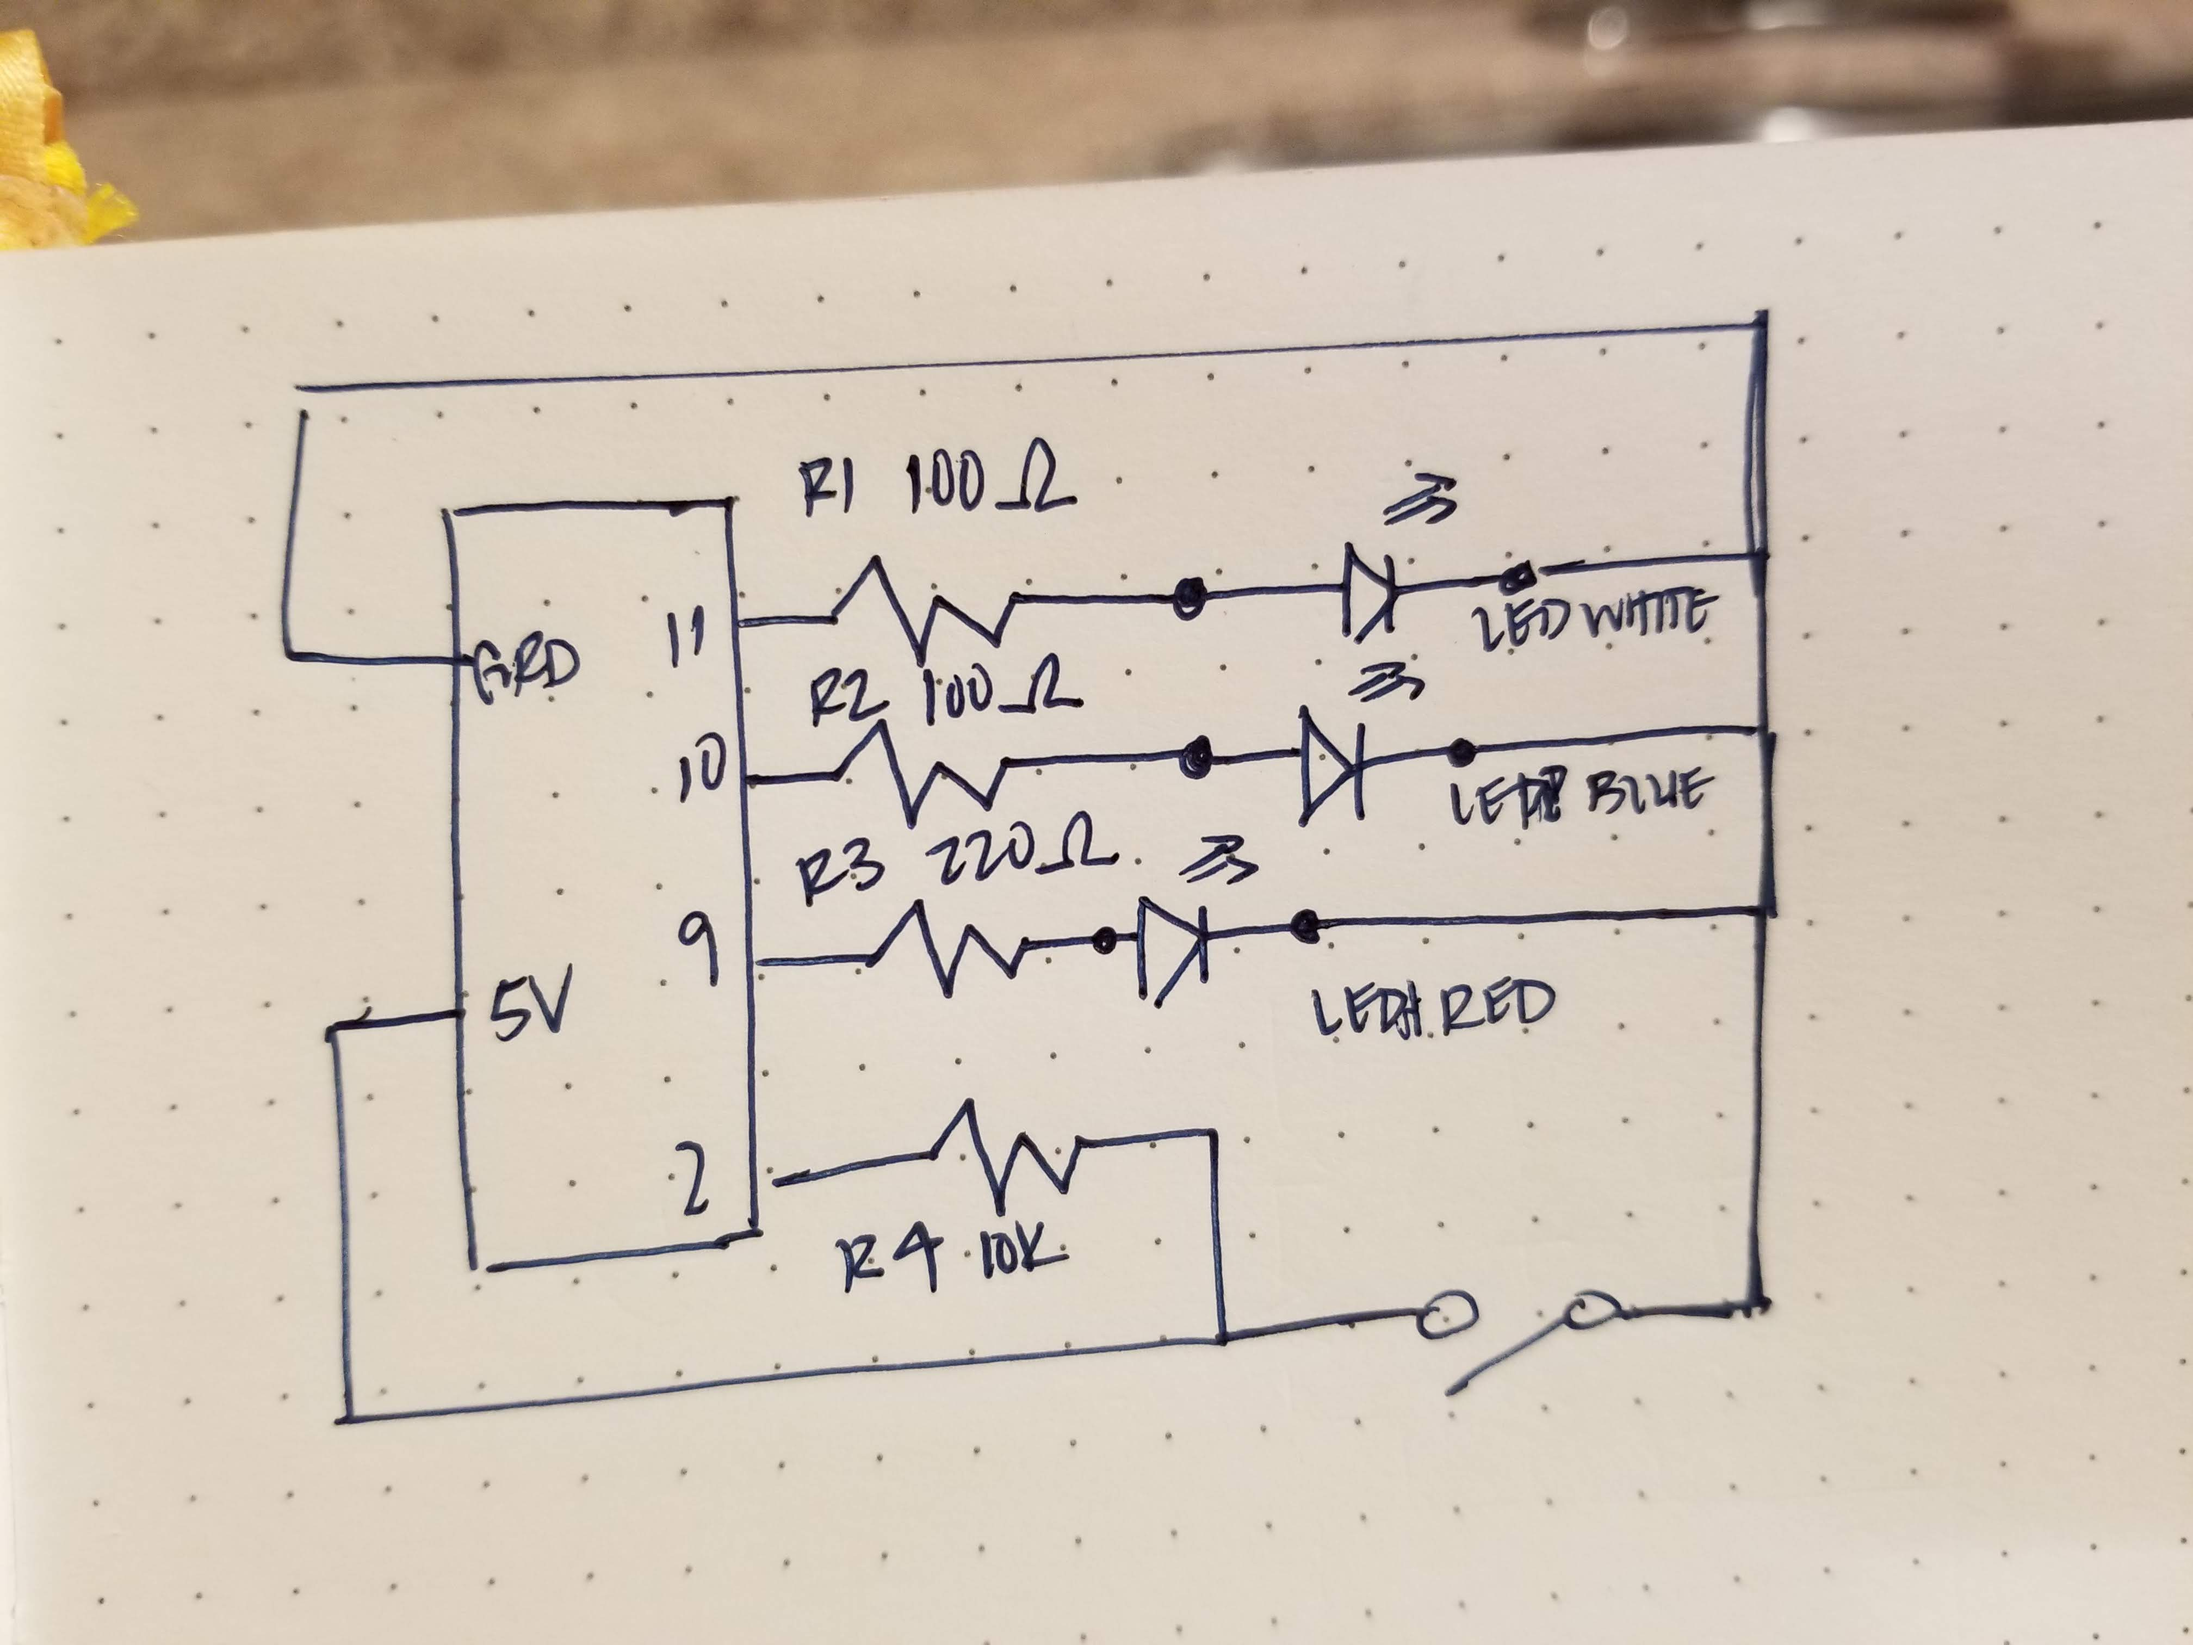
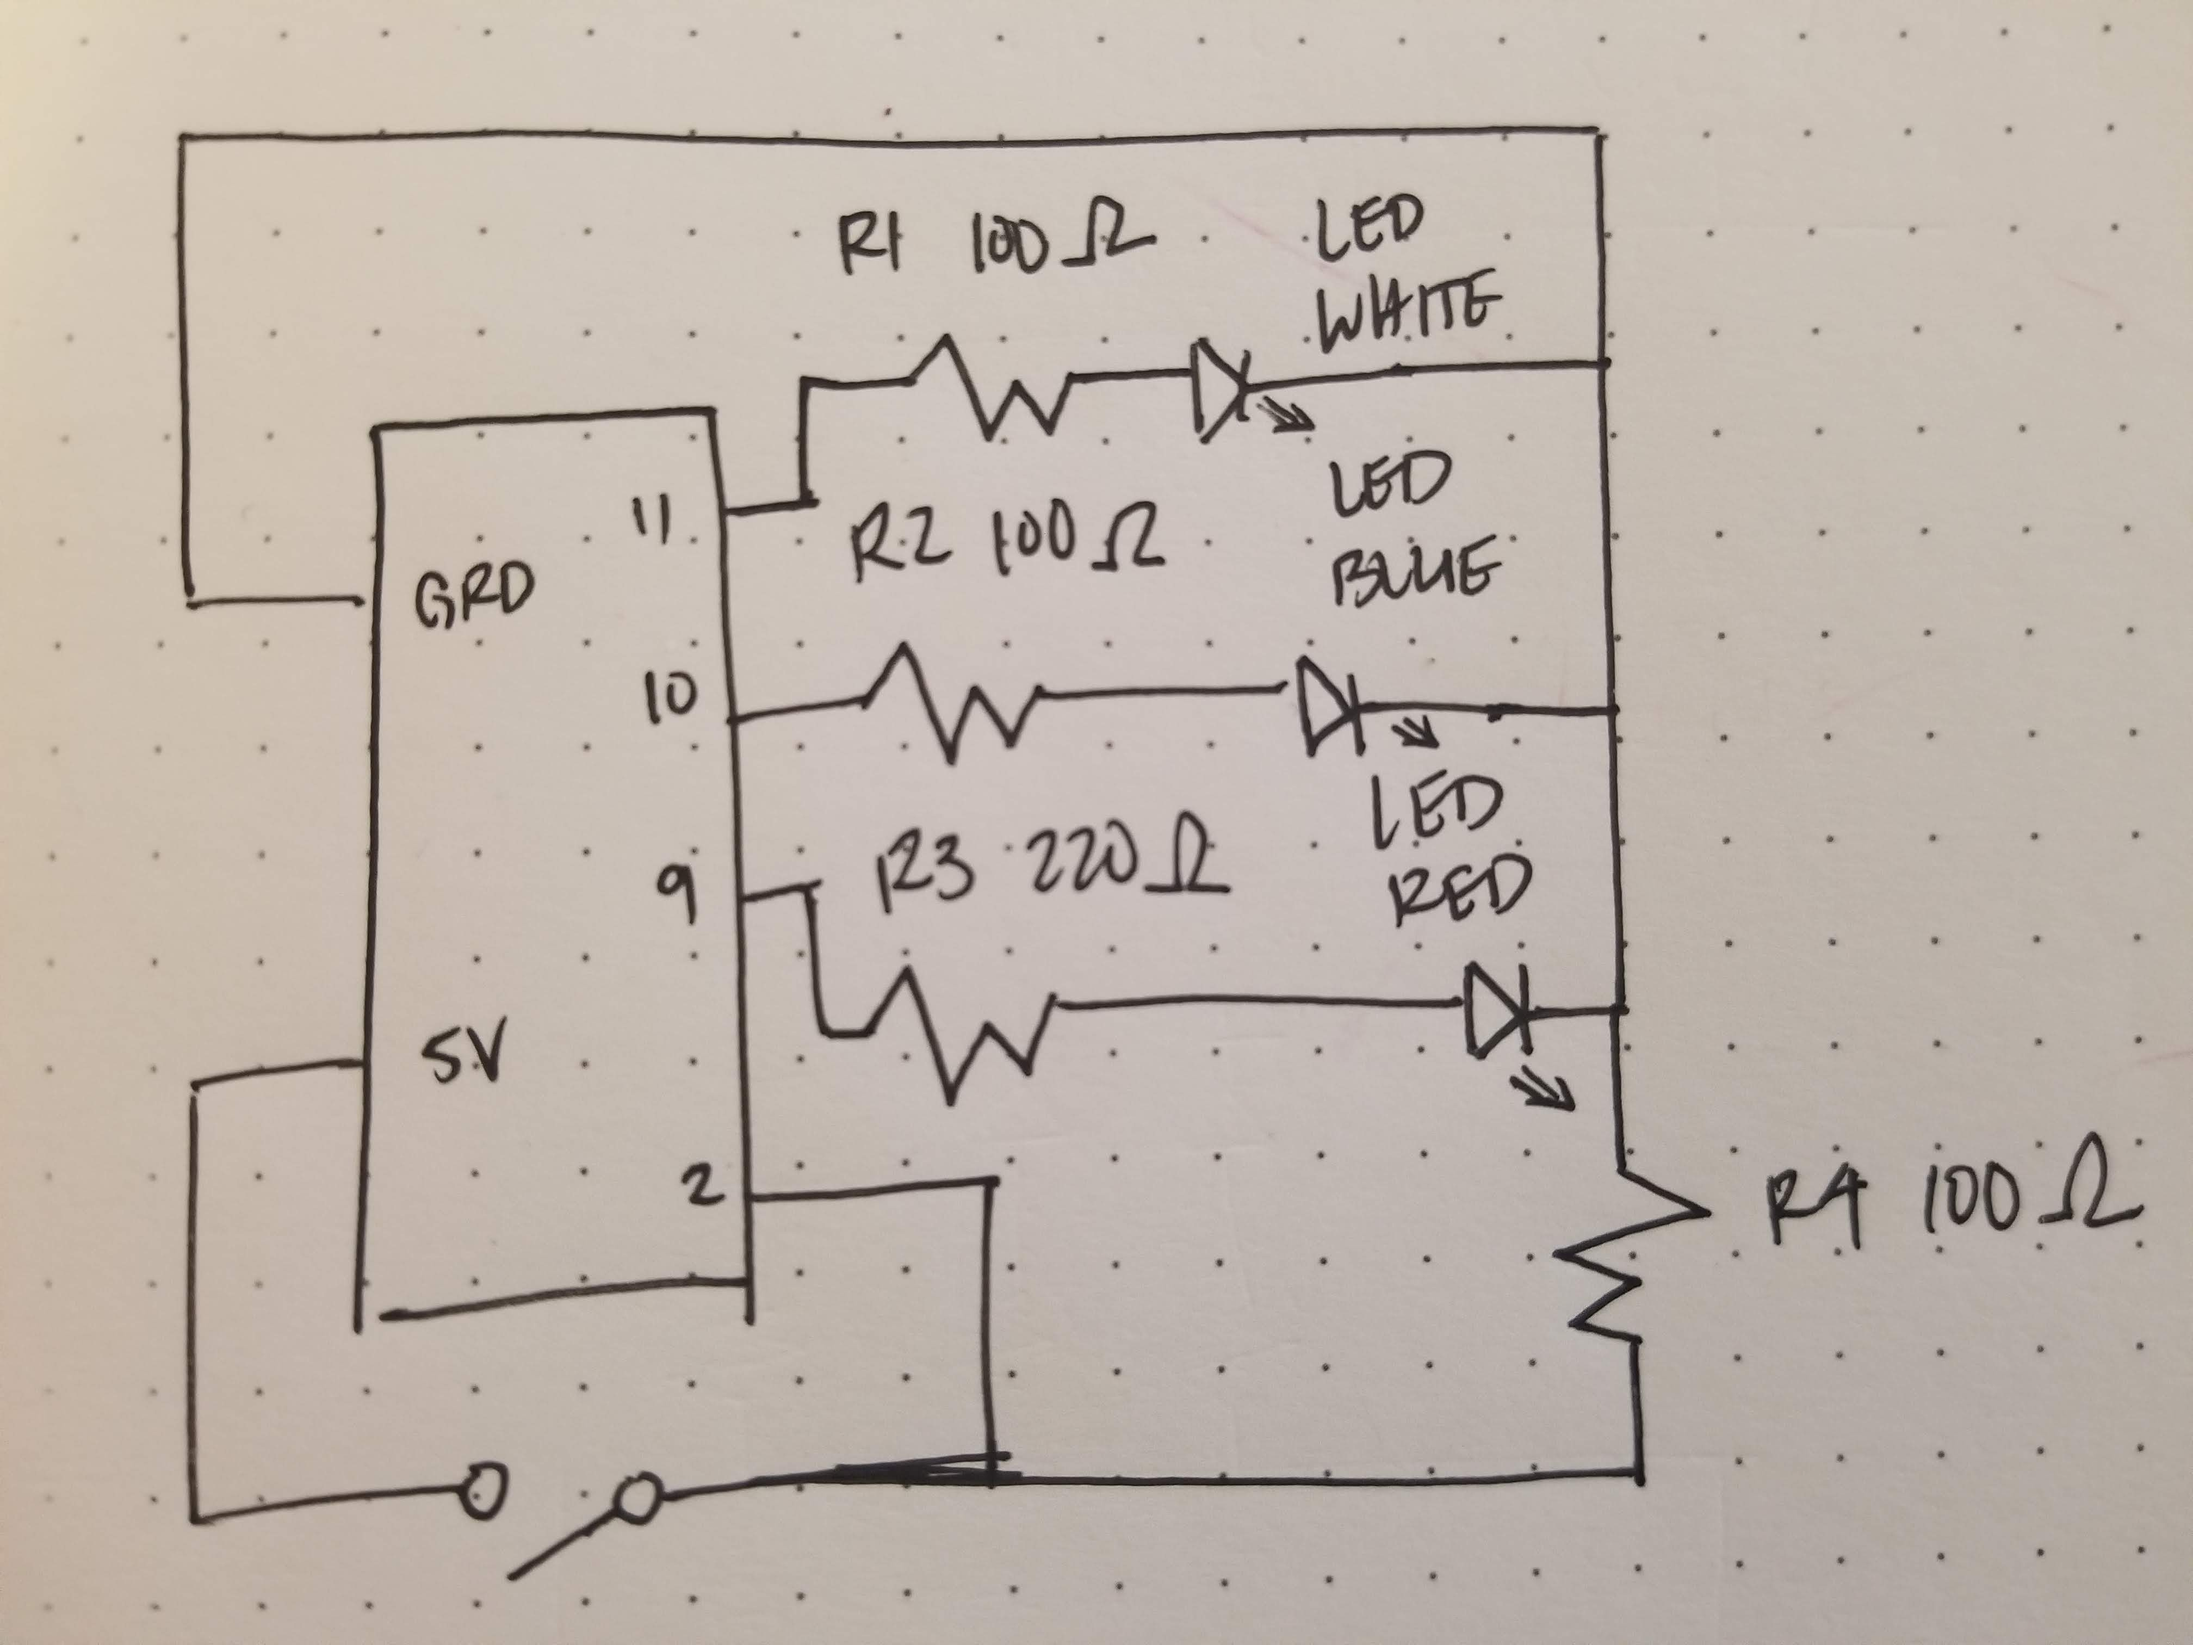
new calc

diff --git a/assignment2.html b/assignment2.html
@@ -27,10 +27,10 @@
               <img src="A2_Scheme.jpg" height=200></a>
               </p>
               <p>
-              <img src="A2_Calc1.jpg" height=150 class="rotate90"></a> <img src="A2_Calc2.jpg" height=150 class="rotate90"></a>
+              <img src="A2_Calc1.jpg" height=150 class="rotate90"></a> <img src="A2_Calc2.jpg" height=150 class="rotate90"></a> <img src="A2_Calc3.jpg" height=150 class="rotate90"></a>
               </p>
               <p>
-              When assuming that LEDs are run at 20 mA, it is calculated that the white, blue, and red LED need 85, 85, and 160 Ohms of resistance, respectively. I used the 220 resistor for red LED, and 100 resistor for the blue and white LED. I used the 10K resistor for the pushbutton.
+              When assuming that LEDs are run at 20 mA, it is calculated that the white, blue, and red LED need 85, 85, and 160 Ohms of resistance, respectively. I used the 220 resistor for red LED, and 100 resistor for the blue and white LED. Assuming that 200mA of current can flow through the push button, it is calcuated to require 25 Ohms of resistance, so I used the 100 Ohm resistor.
               </p>
               <p>
 
@@ -42,7 +42,7 @@
               <img src="A2_Circuit.jpg" width=400></a>
               </p>
               <p>
-
+                I used the red, blue, and white LEDs with pins 9, 10, and 11, respectively, with a push button connected to pin 2. The circuit is connected to 5V and ground.
               </p>
               <p>
               Here's my code:

diff --git a/style.css b/style.css
@@ -65,3 +65,11 @@ a {
   color: #FFF;
   text-decoration: none;
 }
+
+.rotate90 {
+    -webkit-transform: rotate(90deg);
+    -moz-transform: rotate(90deg);
+    -o-transform: rotate(90deg);
+    -ms-transform: rotate(90deg);
+    transform: rotate(90deg);
+}
